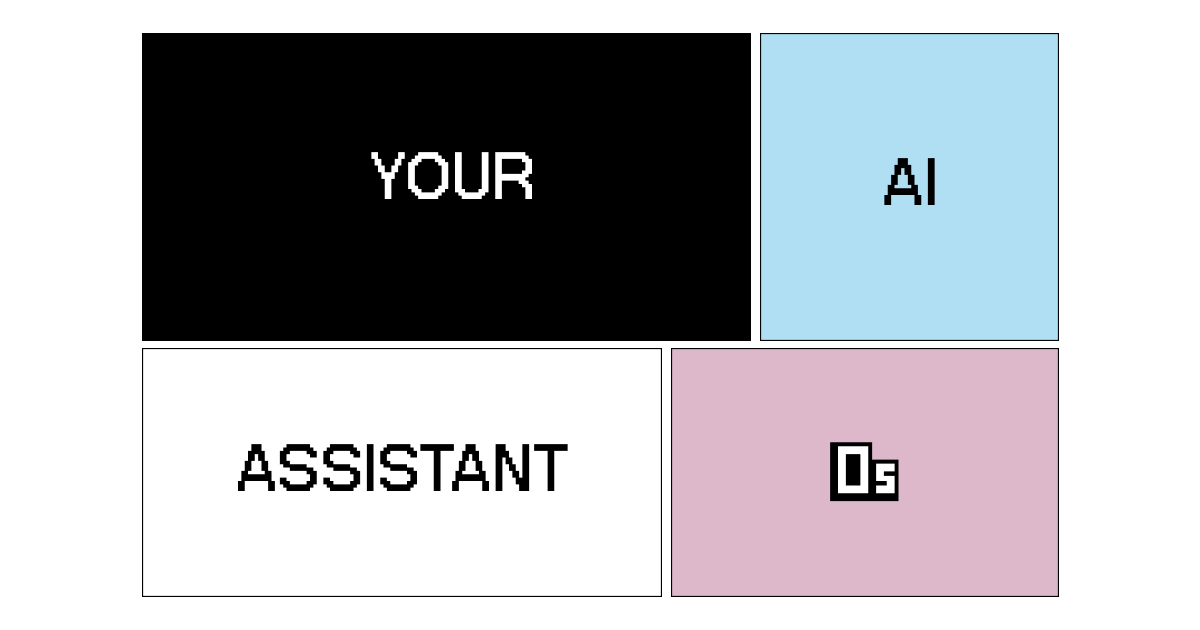
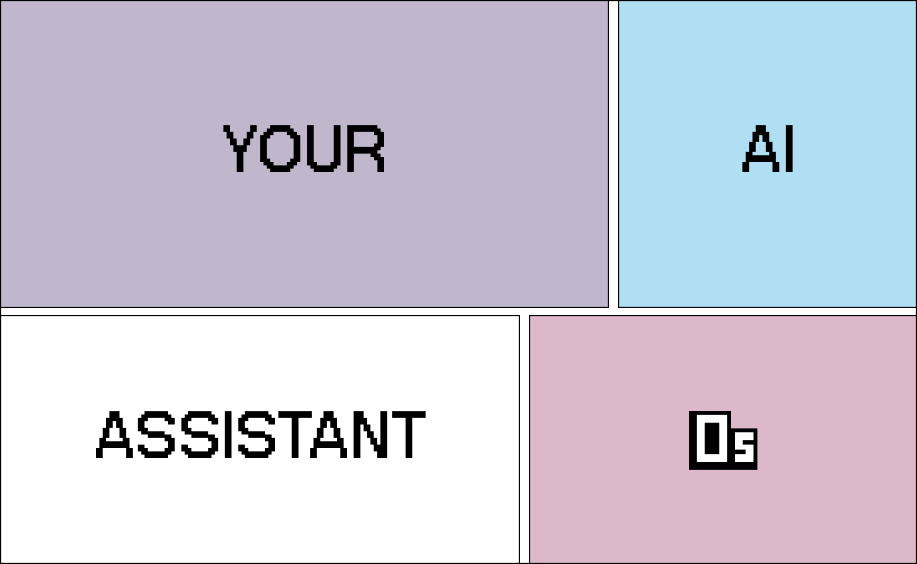
change images and add 00ce

diff --git a/index.html b/index.html
@@ -131,6 +131,15 @@
                         <p>Voice Calendar Assistant</p>
                     </div>
                 </a>
+                <a href="https://00ce.com" target="_blank" class="product-item">
+                    <div class="product-image">
+                        <img src="assets/00ce.png" alt="00ce.com - Time right now: 00:CE" loading="lazy">
+                    </div>
+                    <div class="product-info">
+                        <h3>00ce.com</h3>
+                        <p>Time right now: 00:CE</p>
+                    </div>
+                </a>
             </div>
         </section>
 
